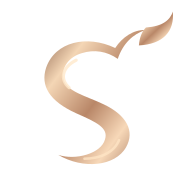
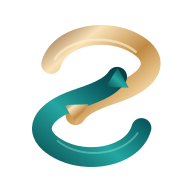
Add files via upload

Changed region(s): [[0.1562, 0.0625, 0.9062, 0.875]]

diff --git a/index.html b/index.html
@@ -1,1 +1,7 @@
-<!doctype html><html lang="ar" dir="rtl"><head><meta charset="utf-8"><meta name="viewport" content="width=device-width,initial-scale=1,viewport-fit=cover"><meta name="theme-color" content="#073F43"><meta name="apple-mobile-web-app-capable" content="yes"><title>ShamPay Premium | DEMO</title><link rel="manifest" href="./manifest.webmanifest"><link rel="icon" href="./icon.svg" type="image/svg+xml"><link rel="apple-touch-icon" href="./icon-192.png"><link rel="stylesheet" href="./style.css?v=20"></head><body><div id="app"><header class="header"><div class="brand"><span class="logo"><img src="./shampay-mark.svg?v=20" alt="ShamPay"></span><span>Sham<b>Pay</b></span><span class="demo">DEMO</span></div><div class="header-actions"><button id="language" aria-label="Language">EN</button><button id="theme" aria-label="Theme">☾</button></div></header><div id="notice" class="notice"></div><main id="content"><section class="boot-fallback" role="status"><h1>أهلاً بك في شام باي</h1><p>جاري تشغيل المحفظة التجريبية…</p><p class="boot-help">إذا بقيت هذه الشاشة، يرجى إعادة فتح التطبيق أو إبلاغ فريق الاختبار.</p></section></main><nav id="nav" class="nav hidden"></nav></div><div id="toast" class="toast" role="status"></div><div id="splash" class="splash" role="status" aria-label="شاشة بداية شام باي"><div class="splash-particles" aria-hidden="true"></div><svg class="splash-art" viewBox="0 0 300 300" aria-hidden="true"><defs><linearGradient id="copper" x1="0" y1="0" x2="1" y2="1"><stop stop-color="#8E614B"/><stop offset=".32" stop-color="#F4D6B5"/><stop offset=".68" stop-color="#B98768"/><stop offset="1" stop-color="#F7D8B8"/></linearGradient></defs><path class="splash-trail" d="M239 46 C177 38 94 67 86 117 C73 173 216 168 195 226 C182 260 129 260 91 242"/><path class="splash-letter" d="M227 47 C208 53 192 68 184 92 C167 80 147 77 128 83 C107 89 96 106 99 123 C103 143 135 150 162 163 C198 180 211 205 197 230 C180 260 130 265 91 242"/><path class="splash-leaf" d="M228 43 C255 41 266 31 270 18 C273 49 255 69 217 71"/></svg><div class="splash-copy" aria-label="ShamPay، ثقتك في كل خطوة"><div class="splash-brand">Sham<span>Pay</span></div><div class="splash-motto" lang="ar" dir="rtl">ثقتك في كل خطوة</div></div></div><script>window.addEventListener("error",function(e){var c=document.getElementById("content");if(c&&!window.__SHAMPAY_READY__){c.innerHTML="<section class=\"boot-fallback\" role=\"alert\"><h1>تعذر تشغيل ShamPay</h1><p>حدث خطأ في تحميل النسخة التجريبية. يرجى إبلاغ فريق الاختبار.</p></section>";}var s=document.getElementById("splash");if(s)s.classList.add("splash-off");});setTimeout(function(){var s=document.getElementById("splash");if(s)s.classList.add("splash-off");},5300);</script><script src="./app.js?v=20" defer></script></body></html>
+<!doctype html><html lang="ar" dir="rtl"><head><meta charset="utf-8"><meta name="viewport" content="width=device-width,initial-scale=1,viewport-fit=cover"><meta name="theme-color" content="#073F43"><meta name="apple-mobile-web-app-capable" content="yes"><title>ShamPay Premium | DEMO</title><link rel="manifest" href="./manifest.webmanifest"><link rel="icon" href="./icon.svg" type="image/svg+xml"><link rel="apple-touch-icon" href="./icon-192.png"><link rel="stylesheet" href="./style.css?v=21"></head><body><div id="app"><header class="header"><div class="brand"><span class="logo"><img src="./shampay-mark.svg?v=21" alt="ShamPay"></span><span>Sham<b>Pay</b></span><span class="demo">DEMO</span></div><div class="header-actions"><button id="language" aria-label="Language">EN</button><button id="theme" aria-label="Theme">☾</button></div></header><div id="notice" class="notice"></div><main id="content"><section class="boot-fallback" role="status"><h1>أهلاً بك في شام باي</h1><p>جاري تشغيل المحفظة التجريبية…</p><p class="boot-help">إذا بقيت هذه الشاشة، يرجى إعادة فتح التطبيق أو إبلاغ فريق الاختبار.</p></section></main><nav id="nav" class="nav hidden"></nav></div><div id="toast" class="toast" role="status"></div><div id="splash" class="splash" role="status" aria-label="شاشة بداية شام باي"><div class="splash-particles" aria-hidden="true"></div><svg class="splash-art splash-financial" viewBox="0 0 300 300" aria-hidden="true"><defs>
+<linearGradient id="goldFlow" x1="0" y1="0" x2="1" y2="1"><stop stop-color="#8E613A"/><stop offset=".24" stop-color="#F9E3B9"/><stop offset=".55" stop-color="#C08A43"/><stop offset=".8" stop-color="#F2D4A0"/><stop offset="1" stop-color="#9E6C39"/></linearGradient>
+<linearGradient id="tealFlow" x1="0" y1="1" x2="1" y2="0"><stop stop-color="#074449"/><stop offset=".45" stop-color="#24A7A1"/><stop offset=".76" stop-color="#0A5B61"/><stop offset="1" stop-color="#05363C"/></linearGradient>
+</defs>
+<g class="flow-upper"><path class="flow-line flow-gold" d="M 80 100 C 94 51 180 39 224 77 C 250 101 230 128 184 144 C 155 154 130 162 118 180" fill="none" stroke="url(#goldFlow)" stroke-width="31" stroke-linecap="round"/><path class="flow-tip" d="M 101 164 L 119 194 L 138 163 Z" fill="url(#goldFlow)"/></g>
+<g class="flow-lower"><path class="flow-line flow-teal" d="M 221 200 C 207 249 121 261 77 223 C 51 199 71 172 117 156 C 146 146 171 138 183 120" fill="none" stroke="url(#tealFlow)" stroke-width="31" stroke-linecap="round"/><path class="flow-tip" d="M 165 136 L 184 106 L 201 137 Z" fill="url(#tealFlow)"/></g>
+</svg><div class="splash-copy" aria-label="ShamPay، ثقتك في كل خطوة"><div class="splash-brand">Sham<span>Pay</span></div><div class="splash-motto" lang="ar" dir="rtl">ثقتك في كل خطوة</div></div></div><script>window.addEventListener("error",function(e){var c=document.getElementById("content");if(c&&!window.__SHAMPAY_READY__){c.innerHTML="<section class=\"boot-fallback\" role=\"alert\"><h1>تعذر تشغيل ShamPay</h1><p>حدث خطأ في تحميل النسخة التجريبية. يرجى إبلاغ فريق الاختبار.</p></section>";}var s=document.getElementById("splash");if(s)s.classList.add("splash-off");});setTimeout(function(){var s=document.getElementById("splash");if(s)s.classList.add("splash-off");},5300);</script><script src="./app.js?v=21" defer></script></body></html>

diff --git a/style.css b/style.css
@@ -138,3 +138,25 @@ body.dark .wallet-avatar{background:#25535A;color:#D2E9E0}
 body.dark .wallet-rule{background:#42636A}
 body.dark .wallet-premium .wallet-top,body.dark .wallet-premium .wallet-hint{color:#B6CEC6!important}
 @media(max-width:360px){.wallet-premium .wallet-name{font-size:13px!important}.wallet-mark{width:34px}.wallet-premium .balance-line .amount{font-size:23px!important}}
+
+/* v21: two directional money-flow arrows merge to form the S emblem */
+.splash .splash-financial{width:min(68vw,265px)!important;height:min(68vw,265px)!important;overflow:visible!important;animation:flow-settle .7s 2.02s ease-out both!important;filter:drop-shadow(0 9px 13px #021B2080)!important}
+.splash-financial .flow-upper,.splash-financial .flow-lower{transform-box:fill-box;transform-origin:center}
+.splash-financial .flow-upper{animation:flow-upper-in 1.65s .12s cubic-bezier(.22,.72,.17,1) both!important}
+.splash-financial .flow-lower{animation:flow-lower-in 1.65s .12s cubic-bezier(.22,.72,.17,1) both!important}
+.splash-financial .flow-line{stroke-dasharray:400!important;stroke-dashoffset:400!important;animation:flow-draw 1.55s .18s cubic-bezier(.22,.72,.17,1) forwards!important}
+.splash-financial .flow-tip{opacity:0;animation:flow-tip-show .3s 1.48s ease-out forwards!important}
+.splash-financial path{stroke-linecap:round!important;stroke-linejoin:round!important}
+.splash-financial .flow-gold{stroke:url(#goldFlow)!important}
+.splash-financial .flow-teal{stroke:url(#tealFlow)!important}
+.splash-brand{animation:sp15-brand .72s 2.48s cubic-bezier(.18,.8,.2,1) forwards!important}
+.splash-motto{animation:sp15-motto .8s 3.3s cubic-bezier(.2,.75,.2,1) forwards!important}
+@keyframes flow-upper-in{from{transform:translate(-115px,-75px) rotate(-30deg);opacity:.2}70%{opacity:1}to{transform:translate(0,0) rotate(0);opacity:1}}
+@keyframes flow-lower-in{from{transform:translate(115px,75px) rotate(-30deg);opacity:.2}70%{opacity:1}to{transform:translate(0,0) rotate(0);opacity:1}}
+@keyframes flow-draw{to{stroke-dashoffset:0}}
+@keyframes flow-tip-show{to{opacity:1}}
+@keyframes flow-settle{from{transform:scale(.93)}to{transform:scale(1)}}
+.login-monogram img{width:112px!important;height:112px!important;object-fit:contain!important}
+.wallet-mark{width:52px!important;height:60px!important;object-fit:contain!important}
+.brand .logo img{object-fit:contain!important}
+@media(prefers-reduced-motion:reduce){.splash-financial,.splash-financial *{animation:none!important;opacity:1!important;transform:none!important;stroke-dashoffset:0!important}.splash-brand,.splash-motto{animation:none!important;opacity:1!important}}

diff --git a/sw.js b/sw.js
@@ -1,4 +1,4 @@
-const CACHE='shampay-logo-cachefix-20261031-v18';const ASSETS=['./','./index.html','./style.css?v=18','./app.js?v=18','./qr.js','./icon.svg','./shampay-mark.svg?v=18','./icon-192.png','./icon-512.png','./manifest.webmanifest'];
+const CACHE='shampay-money-arrows-v21';const ASSETS=['./','./index.html','./style.css?v=21','./app.js?v=21','./qr.js','./icon.svg','./shampay-mark.svg?v=21','./icon-192.png','./icon-512.png','./manifest.webmanifest'];
 self.addEventListener('install',e=>{e.waitUntil(caches.open(CACHE).then(c=>c.addAll(ASSETS)));self.skipWaiting()});
 self.addEventListener('activate',e=>{e.waitUntil(caches.keys().then(keys=>Promise.all(keys.filter(k=>k.startsWith('shampay-')&&k!==CACHE).map(k=>caches.delete(k)))));self.clients.claim()});
 self.addEventListener('fetch',e=>{if(e.request.method!=='GET')return;const u=new URL(e.request.url);if(u.origin!==self.location.origin)return;e.respondWith((async()=>{const cache=await caches.open(CACHE);try{const res=await fetch(e.request);if(res.ok&&res.type!=='opaque')cache.put(e.request,res.clone()).catch(()=>{});return res}catch{const saved=await caches.match(e.request,{ignoreSearch:e.request.mode==='navigate'});return saved||new Response('ShamPay DEMO offline: resource not cached',{status:503,headers:{'Content-Type':'text/plain; charset=utf-8'}})}})())});

diff --git a/README_V21.md b/README_V21.md
@@ -1,0 +1,1 @@
+ShamPay v21: original double-arrow S emblem. Gold and teal arrows converge to form S in animated splash; same emblem in login, header, wallet and icons. App logic unchanged apart from image cache-busting. No localStorage migration. DEMO only.
